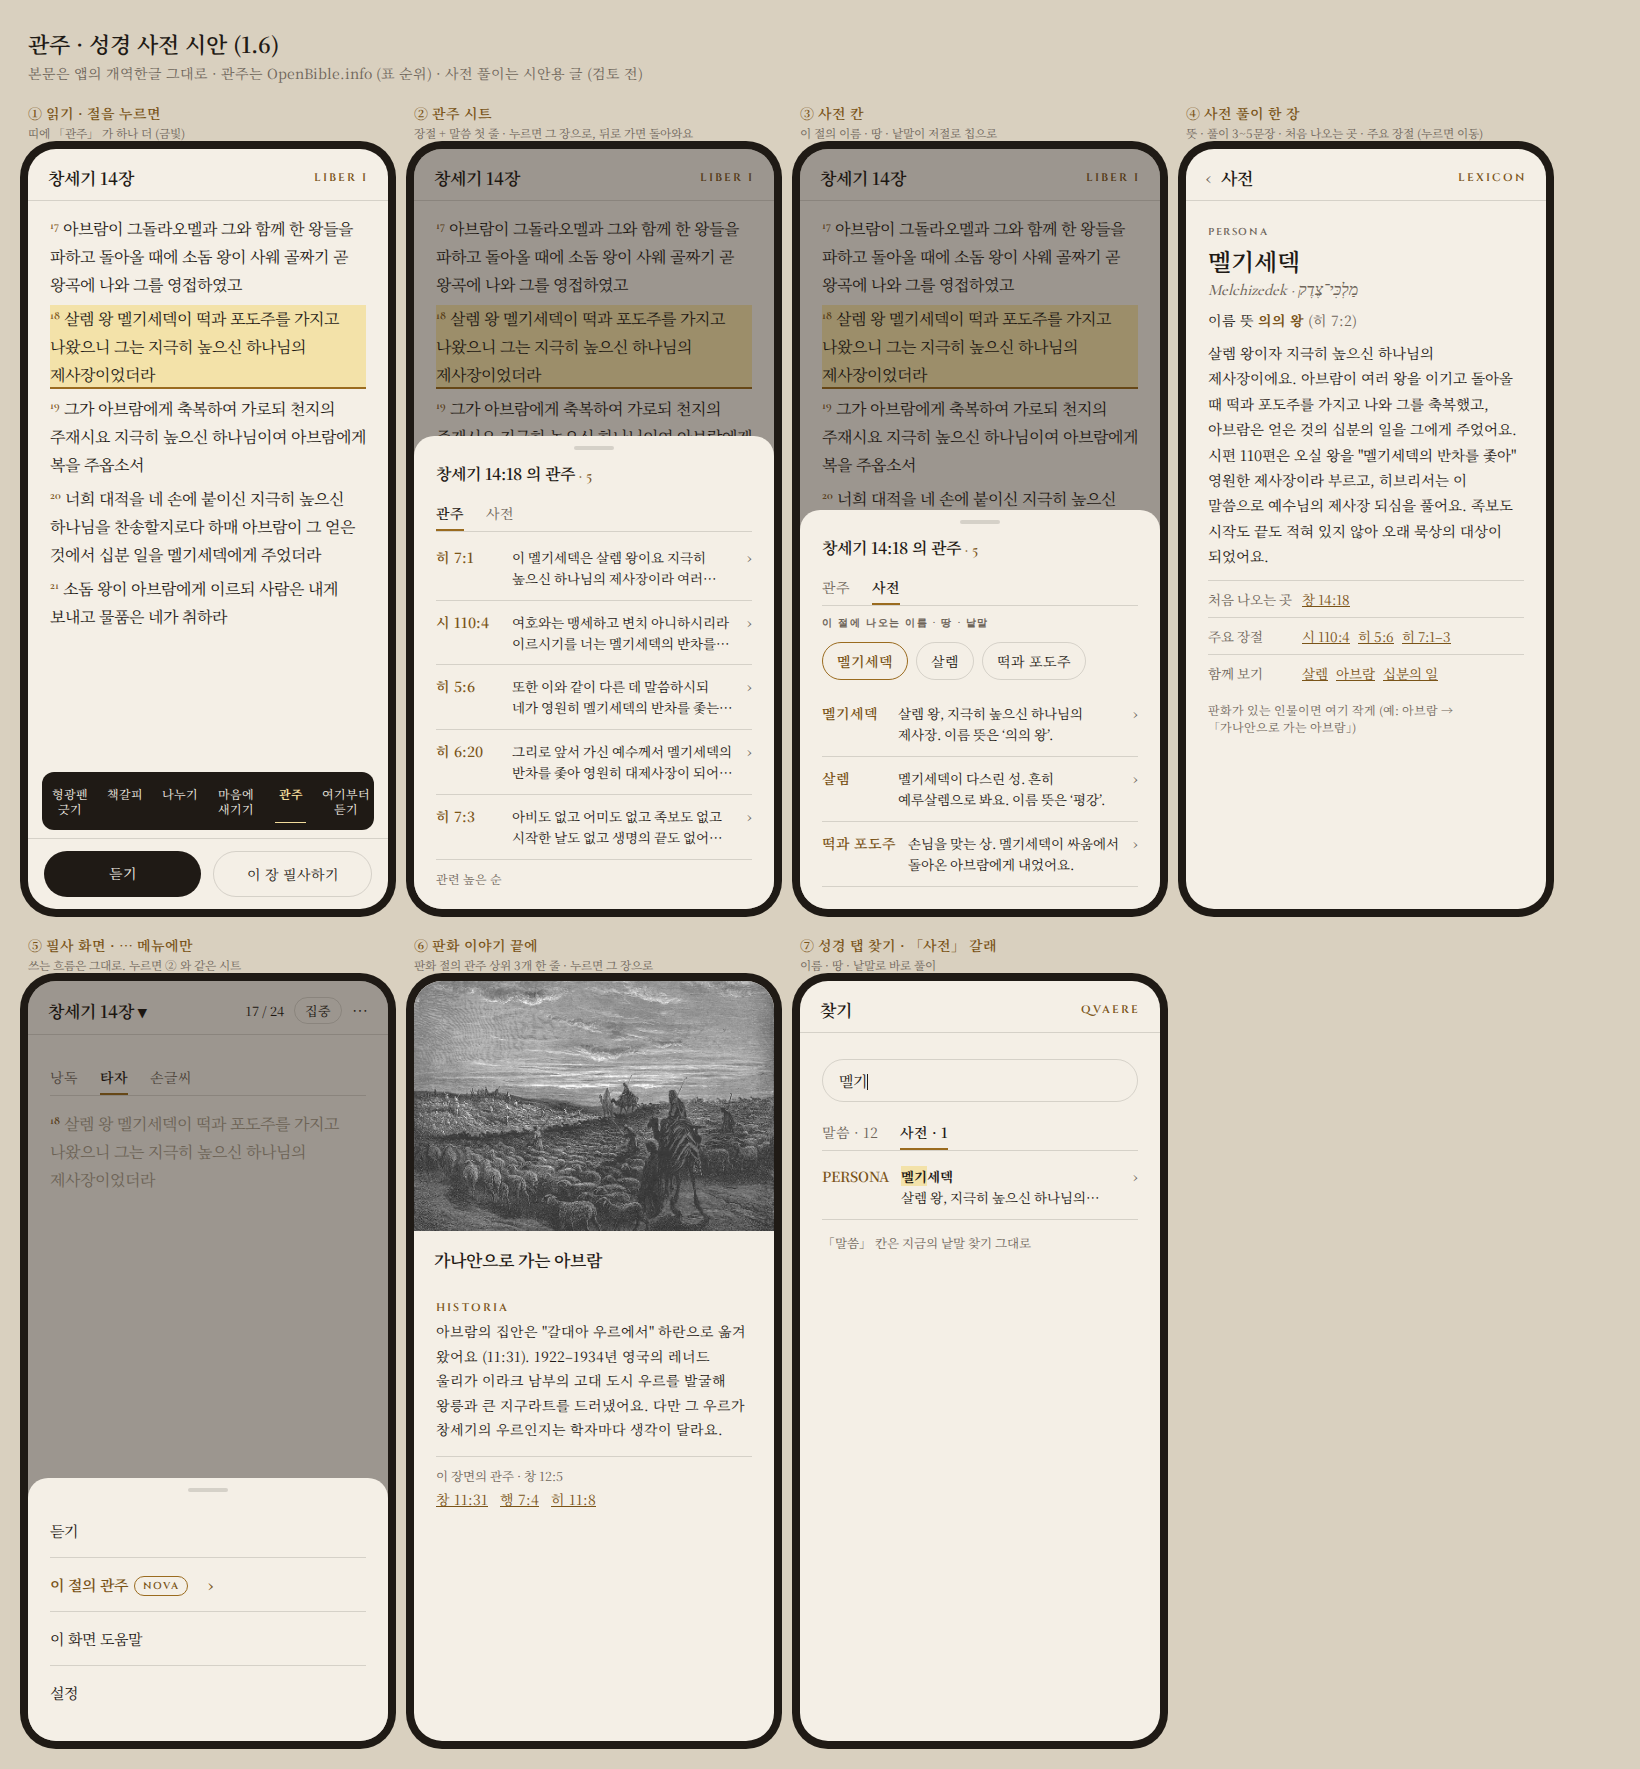
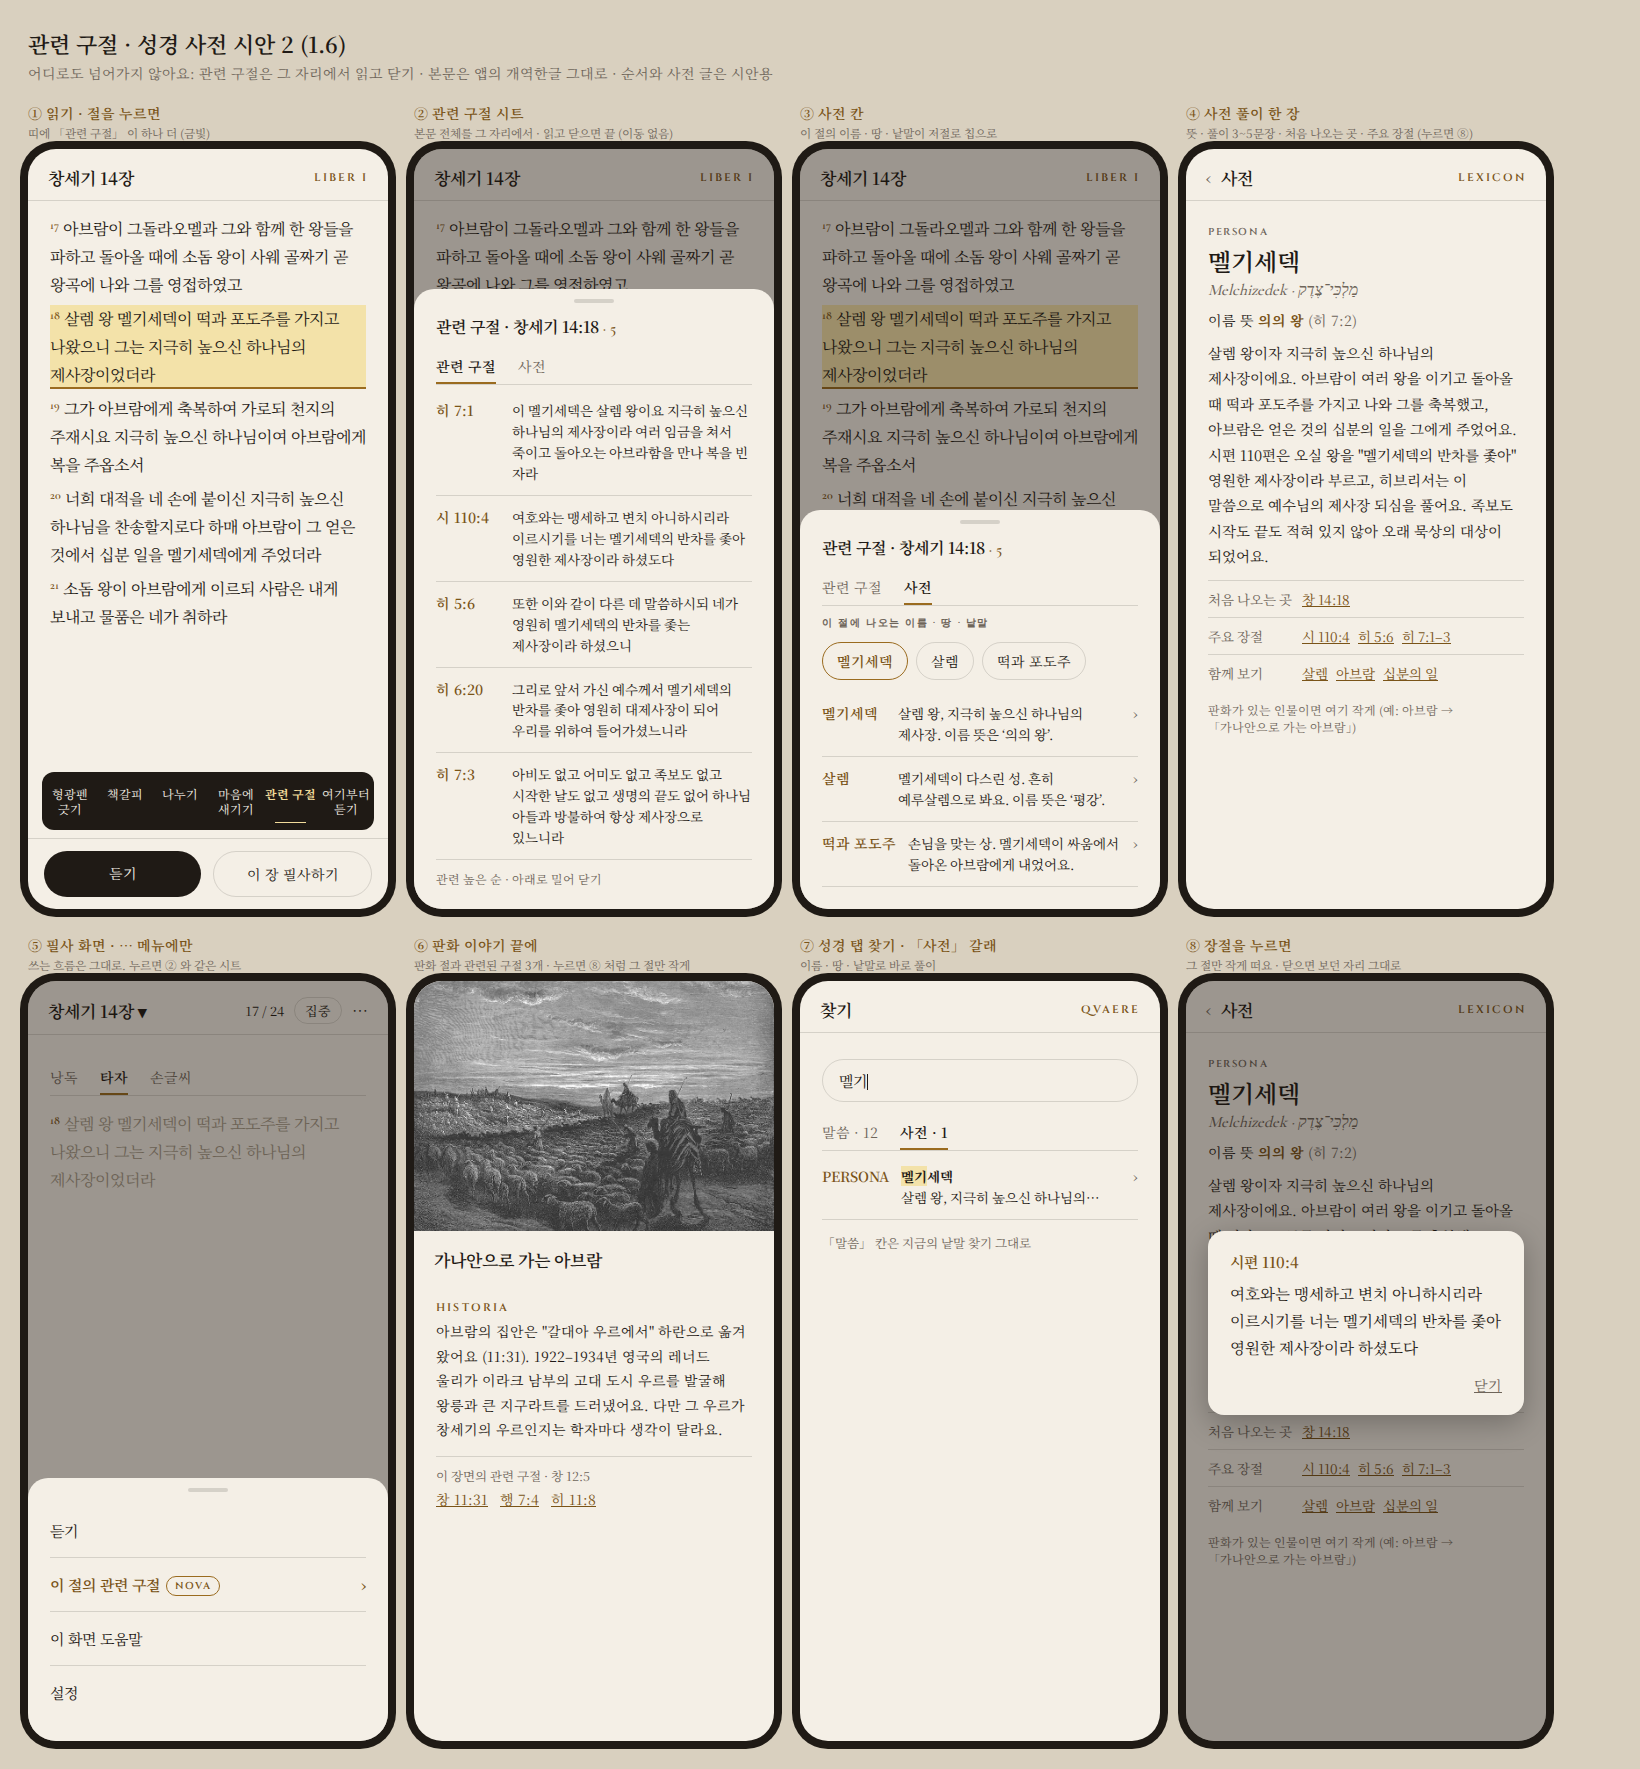
Mockups v2: related verses read in place, no jumping
Claude-Session: https://claude.ai/code/session_01ECt5JBbWXqLioMY8udyyYS

diff --git a/docs/proposal-xref-dictionary.md b/docs/proposal-xref-dictionary.md
@@ -31,15 +31,19 @@
 ## 3. 화면
 
 ### 관주
-- **읽기 화면 (성경 탭):** 절을 누르면 아래에 뜨는 띠 (형광펜 · 책갈피 · 보내기 · 여기부터 듣기) 에 **「관주」** 를 더해요. 누르면 아래 시트:
-  `창세기 14:18 의 관주 · 5` → 줄마다 장절 + 그 절 말씀 첫 줄 (앱의 개역한글 / WEB 그대로). 누르면 그 장으로, 뒤로 가면 돌아와요.
-- **필사 화면:** 쓰는 흐름을 끊지 않게 기본은 숨김. 머리의 ⋯ 메뉴에 「이 절의 관주」 만.
-- **판화 이야기:** HISTORIA 아래에 「이 장면의 관주」 한 줄 (판화 절의 상위 3개).
+- **화면 이름은 「관련 구절」 (Related verses).** "관주" 는 문서에서만.
+- **어디로도 넘어가지 않아요 (10/15 결정).** 읽던 흐름을 지키려고, 관련 구절은 그 자리에서 본문 전체를 읽고 닫아요.
+- **읽기 화면 (성경 탭):** 절을 누르면 뜨는 띠에 **「관련 구절」** 을 더해요. 누르면 아래 시트:
+  `관련 구절 · 창세기 14:18 · 5` → 줄마다 장절 + 그 절 **본문 전체** (앱의 개역한글 / WEB 그대로). 아래로 밀어 닫기.
+- **필사 화면:** 쓰는 흐름을 끊지 않게 기본은 숨김. 머리의 ⋯ 메뉴에 「이 절의 관련 구절」 만.
+- **판화 이야기:** HISTORIA 아래에 「이 장면의 관련 구절」 한 줄 (판화 절의 상위 3개). 누르면 그 절만 작은 카드로.
+- 사전 풀이의 장절도 누르면 같은 작은 카드 (판화 링크 팝업과 같은 방식).
+- 시안: docs/mockups/xref_dictionary_ko.png · _en.png (시안 2).
 - 관주 자료는 절 번호 짝이라 **개역한글 · WEB · KJV 모두 같은 자료** 로 돼요 (절 나눔이 다른 몇 곳은 STEPBible 대조표로 맞춤).
 
 ### 사전
 - 시트에 **「관주 · 사전」** 두 칸. 사전 칸에는 **이 절에 나오는 이름 · 땅 · 낱말** 이 저절로 칩으로 (예: 창 14:18 → 멜기세덱 · 살렘 · 떡과 포도주).
-- 칩을 누르면 한 장짜리 풀이: **뜻 (이름 뜻) · 풀이 3~5문장 · 처음 나오는 곳 · 주요 장절 (누르면 이동)**. 판화가 있는 인물이면 그 판화 작게.
+- 칩을 누르면 한 장짜리 풀이: **뜻 (이름 뜻) · 풀이 3~5문장 · 처음 나오는 곳 · 주요 장절 (누르면 그 절만 작게)**. 판화가 있는 인물이면 그 판화 작게.
 - 성경 탭 찾기에 「사전」 갈래 추가 (낱말로 찾기 옆).
 
 ## 4. 한국어 사전 만드는 법 (핵심 결정)
